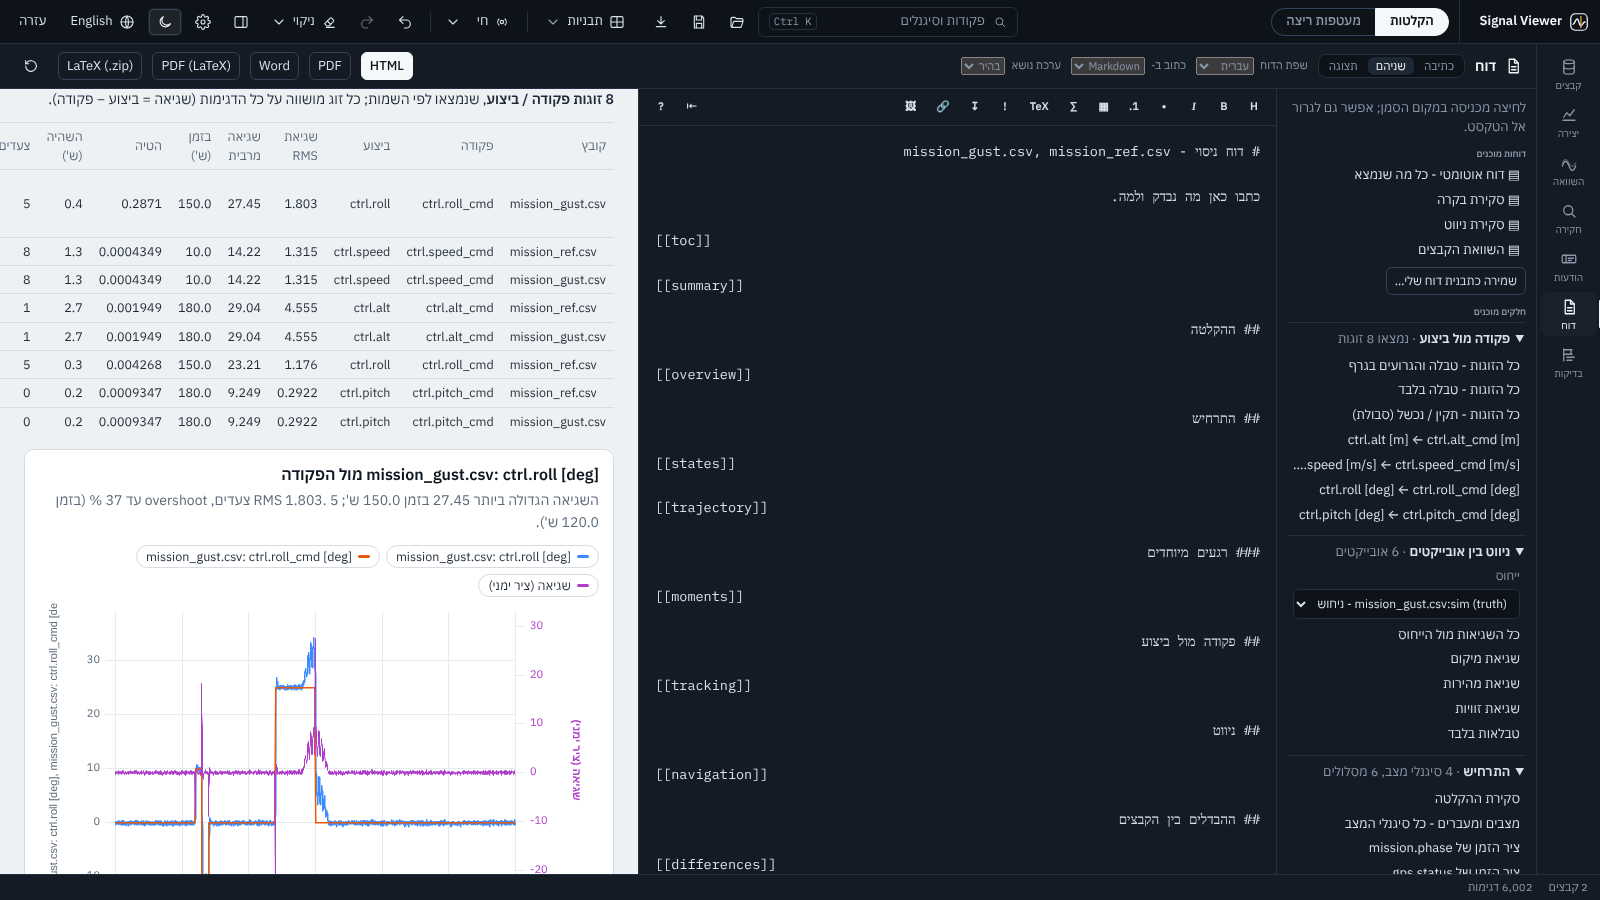
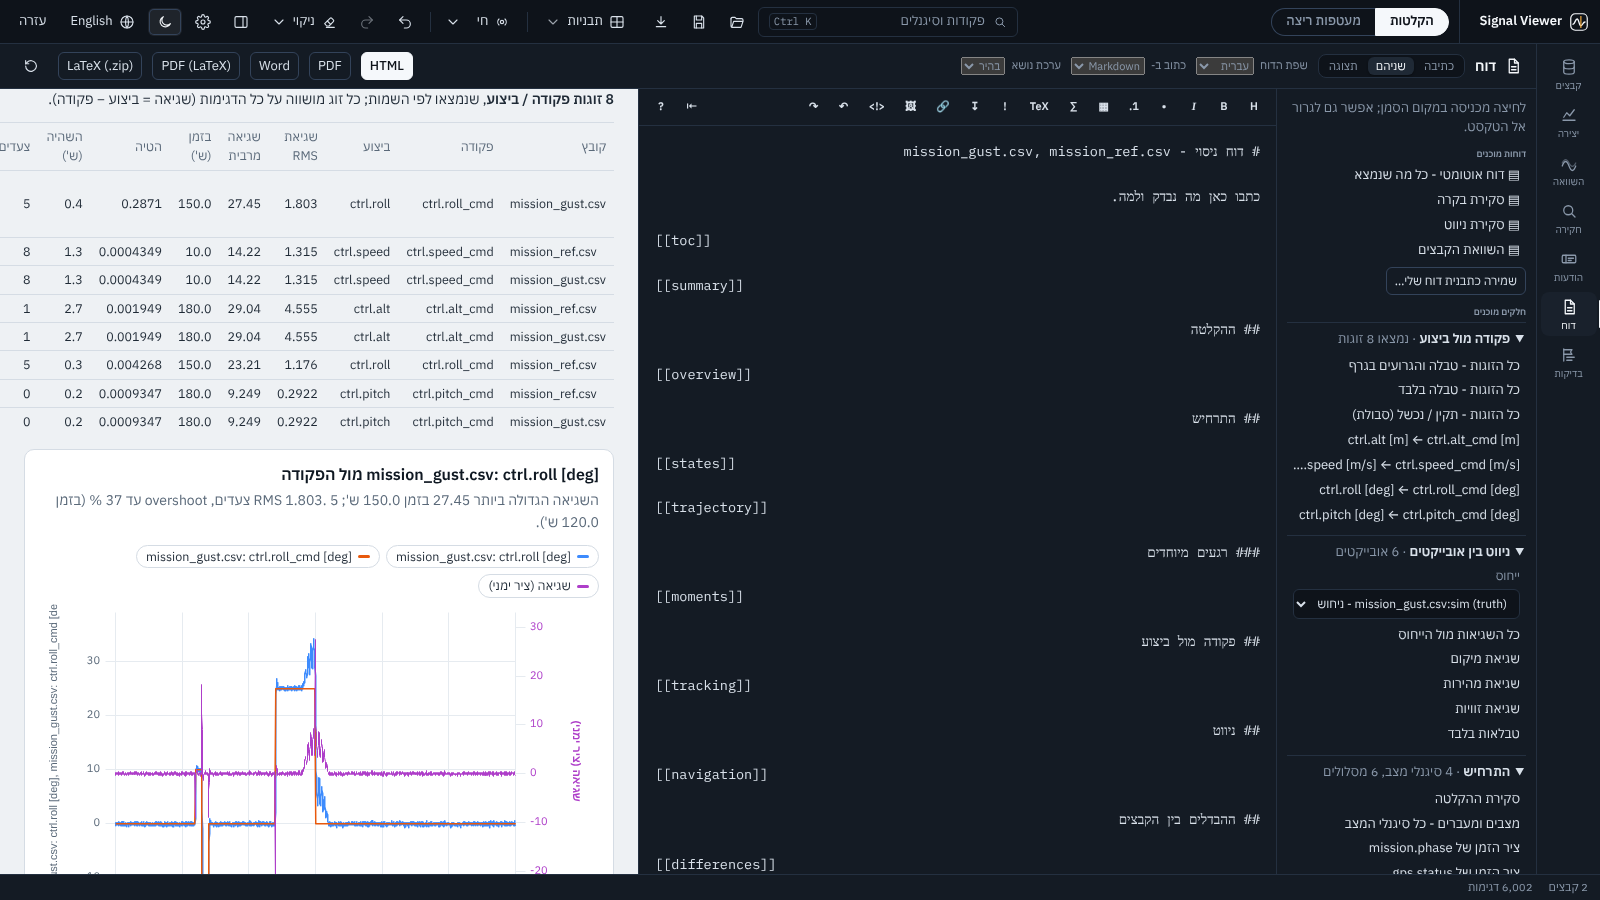
Docs for 1.35.0: README (the report editor's undo and comments, English + Hebrew), GUIDE / GUIDE.he (Asked before, the editor's keys, the field rows, Add a stream), limitations; pictures 42 48-53 55-57
Claude-Session: https://claude.ai/code/session_0146GPW5uo3AQukMdRUpv8vS

diff --git a/README.md b/README.md
@@ -114,7 +114,7 @@ page says `[[signalviewer]]` or under the heading you pick – still live: zoom 
 statistics and the notes. Or drag it out of the window: a folder gets the interactive page, Word a sharp picture.
 *Automatic report* looks at what the files have and writes a report of ready-made parts you then edit - with
 several files, the signals that differ most and the central region of the change, zoomed. Write it in Markdown or
-in **LaTeX** – your preamble, `align`, `tabular`, with the app's plots, parts and values still in it – previewed as a
+in **LaTeX**, in an editor with its own undo and comments – your preamble, `align`, `tabular`, with the app's plots, parts and values still in it – previewed as a
 PDF, offline, with nothing to install (the app carries its own LaTeX), or sent as a project to Overleaf.
 [Writing a report](https://davidalpert11.github.io/SignalViewer/reports/)
 
@@ -217,7 +217,7 @@ Exit codes and JUnit XML for CI; also export, a Sweeps table from a folder of re
 - **אף נקודה לא נעלמת:** המספרים תמיד על כל הנתונים, והגרף מוקטן רק כך שכל קפיצה עדיין מצוירת.
 - **מבתים לסיגנלים:** קו תקשורת שהוקלט בית אחר בית, או NMEA גולמי של מקלט: ההודעות נמצאות לבד (כותרת, אורך, סוג, checksum, סיומת), האפליקציה מציעה מבנה – 16 ביט LSB או MSB קודם, עם סימן, 32 ביט, float, double, טקסט – או שמגדירים אותו בארבעה שלבים מודרכים – הבתים כ־hex, מספרים או ASCII, ולחיצה על בית אומרת מה הוא (כותרת, אורך, סוג, ערך), עם נוסחת המרה – כל הודעה נספרת ומוצגת לפי הסדר, והערכים הופכים להקלטה שנשמרת גם ל־CSV. אפשר גם להאזין חי לפורט טורי, UDP או TCP. חלונית *הודעות* אחת מרכזת הכול: זרמי הבתים, סוגי ההודעות של הלוגים (גם MAVLink), הקווים הפעילים וספריית מבנים.
 - **מפה ותלת־ממד:** תצלומי לוויין או מפה לא מקוונת, מעל פני השטח האמיתיים – הרגע של הסמן על המסלול ובכל הגרפים יחד.
-- **שולחים את התשובה:** לחיצה אחת כותבת דוח מוכן מחלקים (פקודה מול ביצוע, שגיאות ניווט בין אובייקטים, התרחיש והרגעים המיוחדים, וההבדלים העיקריים בין קבצים עם האזור המרכזי של השינוי), או כותבים את הדוח כמו Markdown, או ב־LaTeX כמו ב־Overleaf – בלי אינטרנט ובלי להתקין דבר – עם גרפים וערכים מהנתונים ותצוגה חיה; דוח HTML אחד שנפתח ב"התהליך בקצרה", וגם PDF ו־Word, או גרף ולשונית שנשלחים חיים ישר לדף Confluence – מדביקים את הקישור לדף וזהו (למקום שבו כתוב בדף <code dir="ltr">[[signalviewer]]</code> או מתחת לכותרת שבוחרים); או גוררים אותם אל מחוץ לחלון – לתיקייה דף אינטראקטיבי, ל־Word תמונה חדה. תיקייה של הקלטות – טבלה אחת, שורה לכל הקלטה.
+- **שולחים את התשובה:** לחיצה אחת כותבת דוח מוכן מחלקים (פקודה מול ביצוע, שגיאות ניווט בין אובייקטים, התרחיש והרגעים המיוחדים, וההבדלים העיקריים בין קבצים עם האזור המרכזי של השינוי), או כותבים את הדוח כמו Markdown, או ב־LaTeX כמו ב־Overleaf – בלי אינטרנט ובלי להתקין דבר, בעורך עם ביטול והערות משלו – עם גרפים וערכים מהנתונים ותצוגה חיה; דוח HTML אחד שנפתח ב"התהליך בקצרה", וגם PDF ו־Word, או גרף ולשונית שנשלחים חיים ישר לדף Confluence – מדביקים את הקישור לדף וזהו (למקום שבו כתוב בדף <code dir="ltr">[[signalviewer]]</code> או מתחת לכותרת שבוחרים); או גוררים אותם אל מחוץ לחלון – לתיקייה דף אינטראקטיבי, ל־Word תמונה חדה. תיקייה של הקלטות – טבלה אחת, שורה לכל הקלטה.
 
 **התקנה:** מ־[השחרור האחרון](https://github.com/DavidAlpert11/SignalViewer/releases/latest) (Windows, Linux, macOS), או <code dir="ltr">pip install signalviewer</code>. **מדריך:** [docs/GUIDE.he.md](docs/GUIDE.he.md).
 

diff --git a/docs/GUIDE.he.md b/docs/GUIDE.he.md
@@ -77,7 +77,8 @@ Signal Viewer הוא שולחן עבודה לניתוח ולאימות של כל
   מאשר מחוצה להם.
 - **מה השתנה ראשון?** בסרגל הבחירה: כל הסיגנלים של הקובץ של האירוע, לפי הסדר שבו יצאו מהטווח הרגיל
   שלהם סביב הקטע – מועמדים, לא סיבות – וההשהיה בין כל שניים מהם. מתחת לכל אחד – אותו סיגנל בריצות
-  האחרות: שינוי שיש גם בריצה בלי הבעיה לא מסביר אותה לבד. בלוג ארוך: סינון, או הוצאת שורות וקבוצות ב-×. אפשר לנסות הכול על הדוגמה *לברר מה השתבש*:
+  האחרות: שינוי שיש גם בריצה בלי הבעיה לא מסביר אותה לבד. בלוג ארוך: סינון, או הוצאת שורות וקבוצות ב-×.
+  שאלה על קטע אחר מעבירה את התשובה המוצגת ל-*Asked before*: לחיצה מציגה אותה שוב, ✕ מסירה אותה. אפשר לנסות הכול על הדוגמה *לברר מה השתבש*:
   [המדריך](investigate-tutorial.he.md).
 - **ריצות × תנאים** (כפתור מתחת לתנאים): כל ריצה פתוחה מול כל תנאי, עם מה שמבדיל בין הריצות (מטען, הגבר,
   המספר בשם הקובץ). הריצה החריגה מסומנת; קליק פותח אותה במקטע. *פתיחת תיקייה של ריצות…* מביאה סט
@@ -328,7 +329,7 @@ Signal Viewer הוא שולחן עבודה לניתוח ולאימות של כל
   הכתובת של הדף שומרת את הרגע (<code dir="ltr">…replay.html#t=125.4</code>), כך שקישור יכול להצביע על זמן.
   *לפתוח* בהודעה מציג אותו בדפדפן לפני השליחה.
 - **דוח**: מגרסה 1.31 מסמך שכותבים, כמו Markdown, במקום הגרפים – `[[לשונית.גרף]]` מכניס גרף או לשונית שלמה,
-  `{{ max(Roll) }}` ערך שמחושב על כל הדגימות, ותצוגה חיה לצד הטקסט ([כתיבת דוח](reports.he.md)) – ושמירה כ־HTML אינטראקטיבי, PDF או Word.
+  `{{ max(Roll) }}` ערך שמחושב על כל הדגימות, ותצוגה חיה לצד הטקסט ([כתיבת דוח](reports.he.md); לעורך Ctrl+Z משלו, הערות ב-Ctrl+/ ומקשי שורות) – ושמירה כ־HTML אינטראקטיבי, PDF או Word.
   כל דוח נפתח ב**התהליך בקצרה**: הנתונים, מה נבדק (הבדיקה של הלוג, תוצאת ההשוואה, החקירה), מה מוצג והמסקנה –
   את המסקנה כותבים ב*סיכום* (הפאנל מזכיר כשהיא ריקה).
   **דוח ה־HTML הוא דף חי אחד**: סרגל זמן בתחתית מזיז יחד את הסמן בכל הגרפים, את המפה ואת התלת־ממד, עם ניגון
@@ -428,8 +429,12 @@ signalviewer-cli check examples/bench/pump_run_07.parquet --checks examples/benc
    כאן, בית האורך, בית הסוג, ה-footer מכאן, *כאן מתחיל ערך* (8 / 16 / 32 ביט, עם סימן או בלי, LSB או MSB קודם,
    float) או *לא ערך*. לחיצה על תבנית: להשתמש בה כ-header או כ-footer.
 3. **המשתנים בכל הודעה** – הערכים בהודעות הראשונות, מתעדכנים מיד; בטופס (או JSON) נותנים שמות, קנה מידה ויחידה.
+   כל שדה הוא שורה עם ✕ משלו (Undo בהודעה); הודעה שלמה נמחקת רק מהכפתור שלה, אחרי שאלה.
 4. **יצירת ההקלטה** – הערכים הופכים להקלטה כמו כל קובץ שנפתח; **שמירה כקובץ** (CSV, Parquet, MAT, HDF5), גרפי
    ההודעות, והוספה לדוח (`[[messages]]`, וגם *דוחות מוכנים ← סקירת קשר*).
+
+**Add a stream** מגדיר כל סיגנל של הקבצים הפתוחים כזרם (עוד TX, עוד קו); בתפריט ⋯ של כל זרם: להתחיל מחדש, לשכוח את
+ההגדרה או להסיר מהרשימה (אחרי שאלה, Undo אחד).
 
 לניסיון: *עזרה ← דוגמאות ← a serial link* או `examples/serial_link/link_tx_rx.csv`. הפירוט: [Messages](messages.md).
 

diff --git a/docs/limitations.md b/docs/limitations.md
@@ -25,7 +25,7 @@
   install TeX Live / MiKTeX for every package); the preview PDF shows in the window where it has a PDF view (else
   *Open the PDF in its own viewer*); a template saved in the app carries the written report (1.32), but the
   command line's batch reports do not make it yet (they make the report of the template's tabs); one written report
-  per session.
+  per session. The editor's own undo history (1.35) is not saved with the session.
 * Ready-made report parts (1.32): pairs, objects and states are found by the signals' names - a pair named
   otherwise is not found (write its plot with `[[plot A, B]]` and its values with `{{ }}`); `[[differences]]`
   compares the files on their recorded time (no automatic time alignment - align them first in Compare when their
@@ -33,7 +33,7 @@
   (as *Compare objects…*); `[[trajectory]]` reads a latitude / longitude track. The parts are not offered in Sweeps.
 * Reports: "Stretches together" (occurrences) plots are not drawn in reports yet; a finding's plot is the time plots of the tab it was found in (up to two) at its view. The journal keeps the last 200 steps; it is saved with the session, not with templates.
 * Runs × conditions works on the open files: a folder of runs is opened (up to 200 files at a time, each read into memory) - for a folder of hundreds, *Summarize a folder* reads one file at a time into a Sweeps table instead. Parameters come from signals that hold one value and from numbers in file names; a side file of parameters is not read yet.
-* What changed first finds a change in level (beyond 4 times the usual noise, 3 samples in a row); a change only in how a signal oscillates (same level, more shaking) shows only when it pushes samples that far. It reads the usual level well before the span - an event that has been building for longer than that is measured against its own start. Near the start of the file it reads it from whatever is there before the span; with nothing before it, it says so instead of answering.
+* What changed first finds a change in level (beyond 4 times the usual noise, 3 samples in a row); a change only in how a signal oscillates (same level, more shaking) shows only when it pushes samples that far. It reads the usual level well before the span - an event that has been building for longer than that is measured against its own start. Near the start of the file it reads it from whatever is there before the span; with nothing before it, it says so instead of answering. The earlier spans under *Asked before* (1.35) are not saved with the session.
 * What differs inside the stretches compares means (in units of the spread outside) - a signal that only changes shape, not level, ranks low. The overlay draws the first 200 stretches.
 * Conditions: kept in the session (no shared library yet). A selection is the two cursors - Shift+drag was planned for it, but Shift+drag already zooms the values (T19), so it stays that. Conditions are looked for file by file, on the first signal's samples (other signals: nearest sample).
 * Vector smoothing is a plain centred moving average (no Kalman filter, no outlier rejection); angles and quaternions are not smoothed. The last half-window of a live file is averaged over fewer samples until more arrive.

diff --git a/docs/GUIDE.md b/docs/GUIDE.md
@@ -86,6 +86,7 @@ are told apart by them.
   its usual range around the span - candidates, not causes - and the lag between any two of them.
   Under each, the same signal in the other runs: a change that a run without the problem has too
   does not explain it alone. On a long log, filter the list or take rows and groups out with ×.
+  Asked again for another span, the one shown goes to *Asked before*: a click shows it again, ✕ removes it.
   Try it all on the example *find out what went wrong*: [the tutorial](investigate-tutorial.md).
 - **Runs × conditions** (button under the conditions): every open run against every condition, with
   what tells the runs apart (a payload, a gain, the number in the file name). The odd run is marked; a
@@ -402,7 +403,7 @@ shown change together – on the axis, in the list, in the legend – and it can
   *Open it* in the message shows it in your browser before you send it.
 - **Report** (left): since 1.31 a report you write, like Markdown, in place of the plots – `[[tab.plot]]` puts a
   plot or a whole tab in, `{{ max(Roll) }}` a value computed on every sample, with a live preview beside it
-  (see [Writing a report](reports.md)) – saved as interactive HTML, PDF or Word. Every report opens with **The process in brief**: the data, what was
+  (see [Writing a report](reports.md); the editor has its own Ctrl+Z, Ctrl+/ comments and line keys) – saved as interactive HTML, PDF or Word. Every report opens with **The process in brief**: the data, what was
   checked (the log's own check, Compare's verdict, the investigation), what it shows and the conclusion –
   write the conclusion under *Summary*. **The HTML report is one live page**: a time bar at the bottom moves every
   plot's cursor, the map and the 3D view together, with Play and the log's marks, while each plot keeps its
